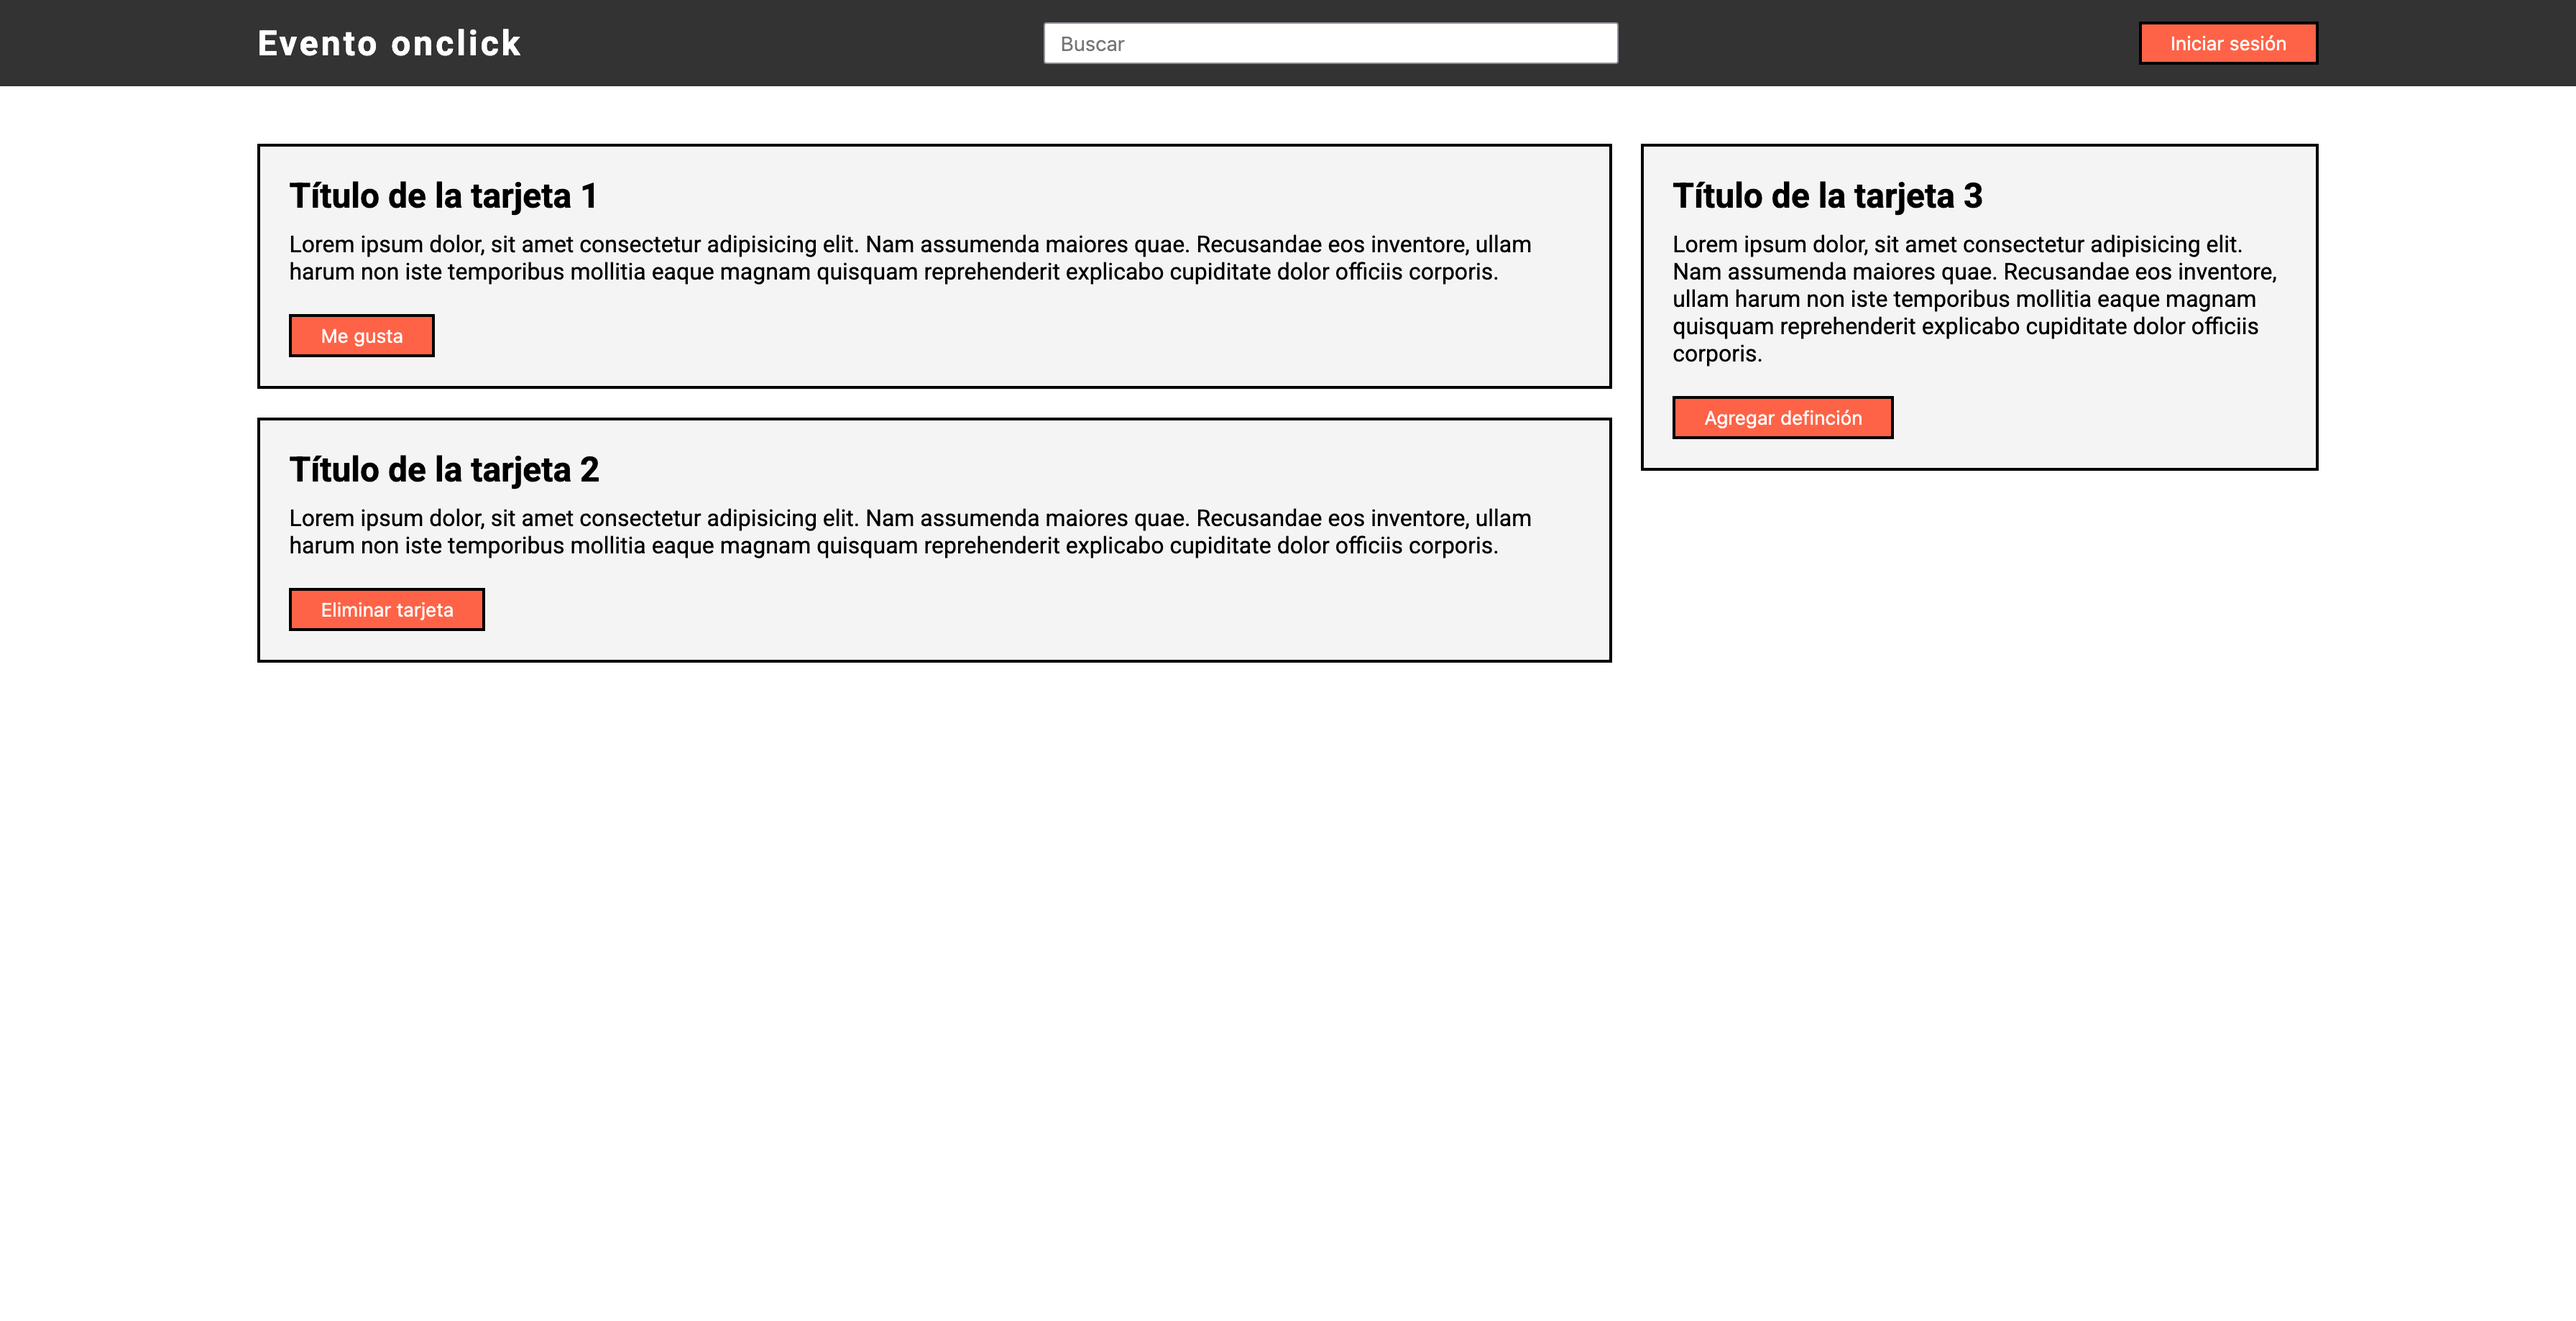
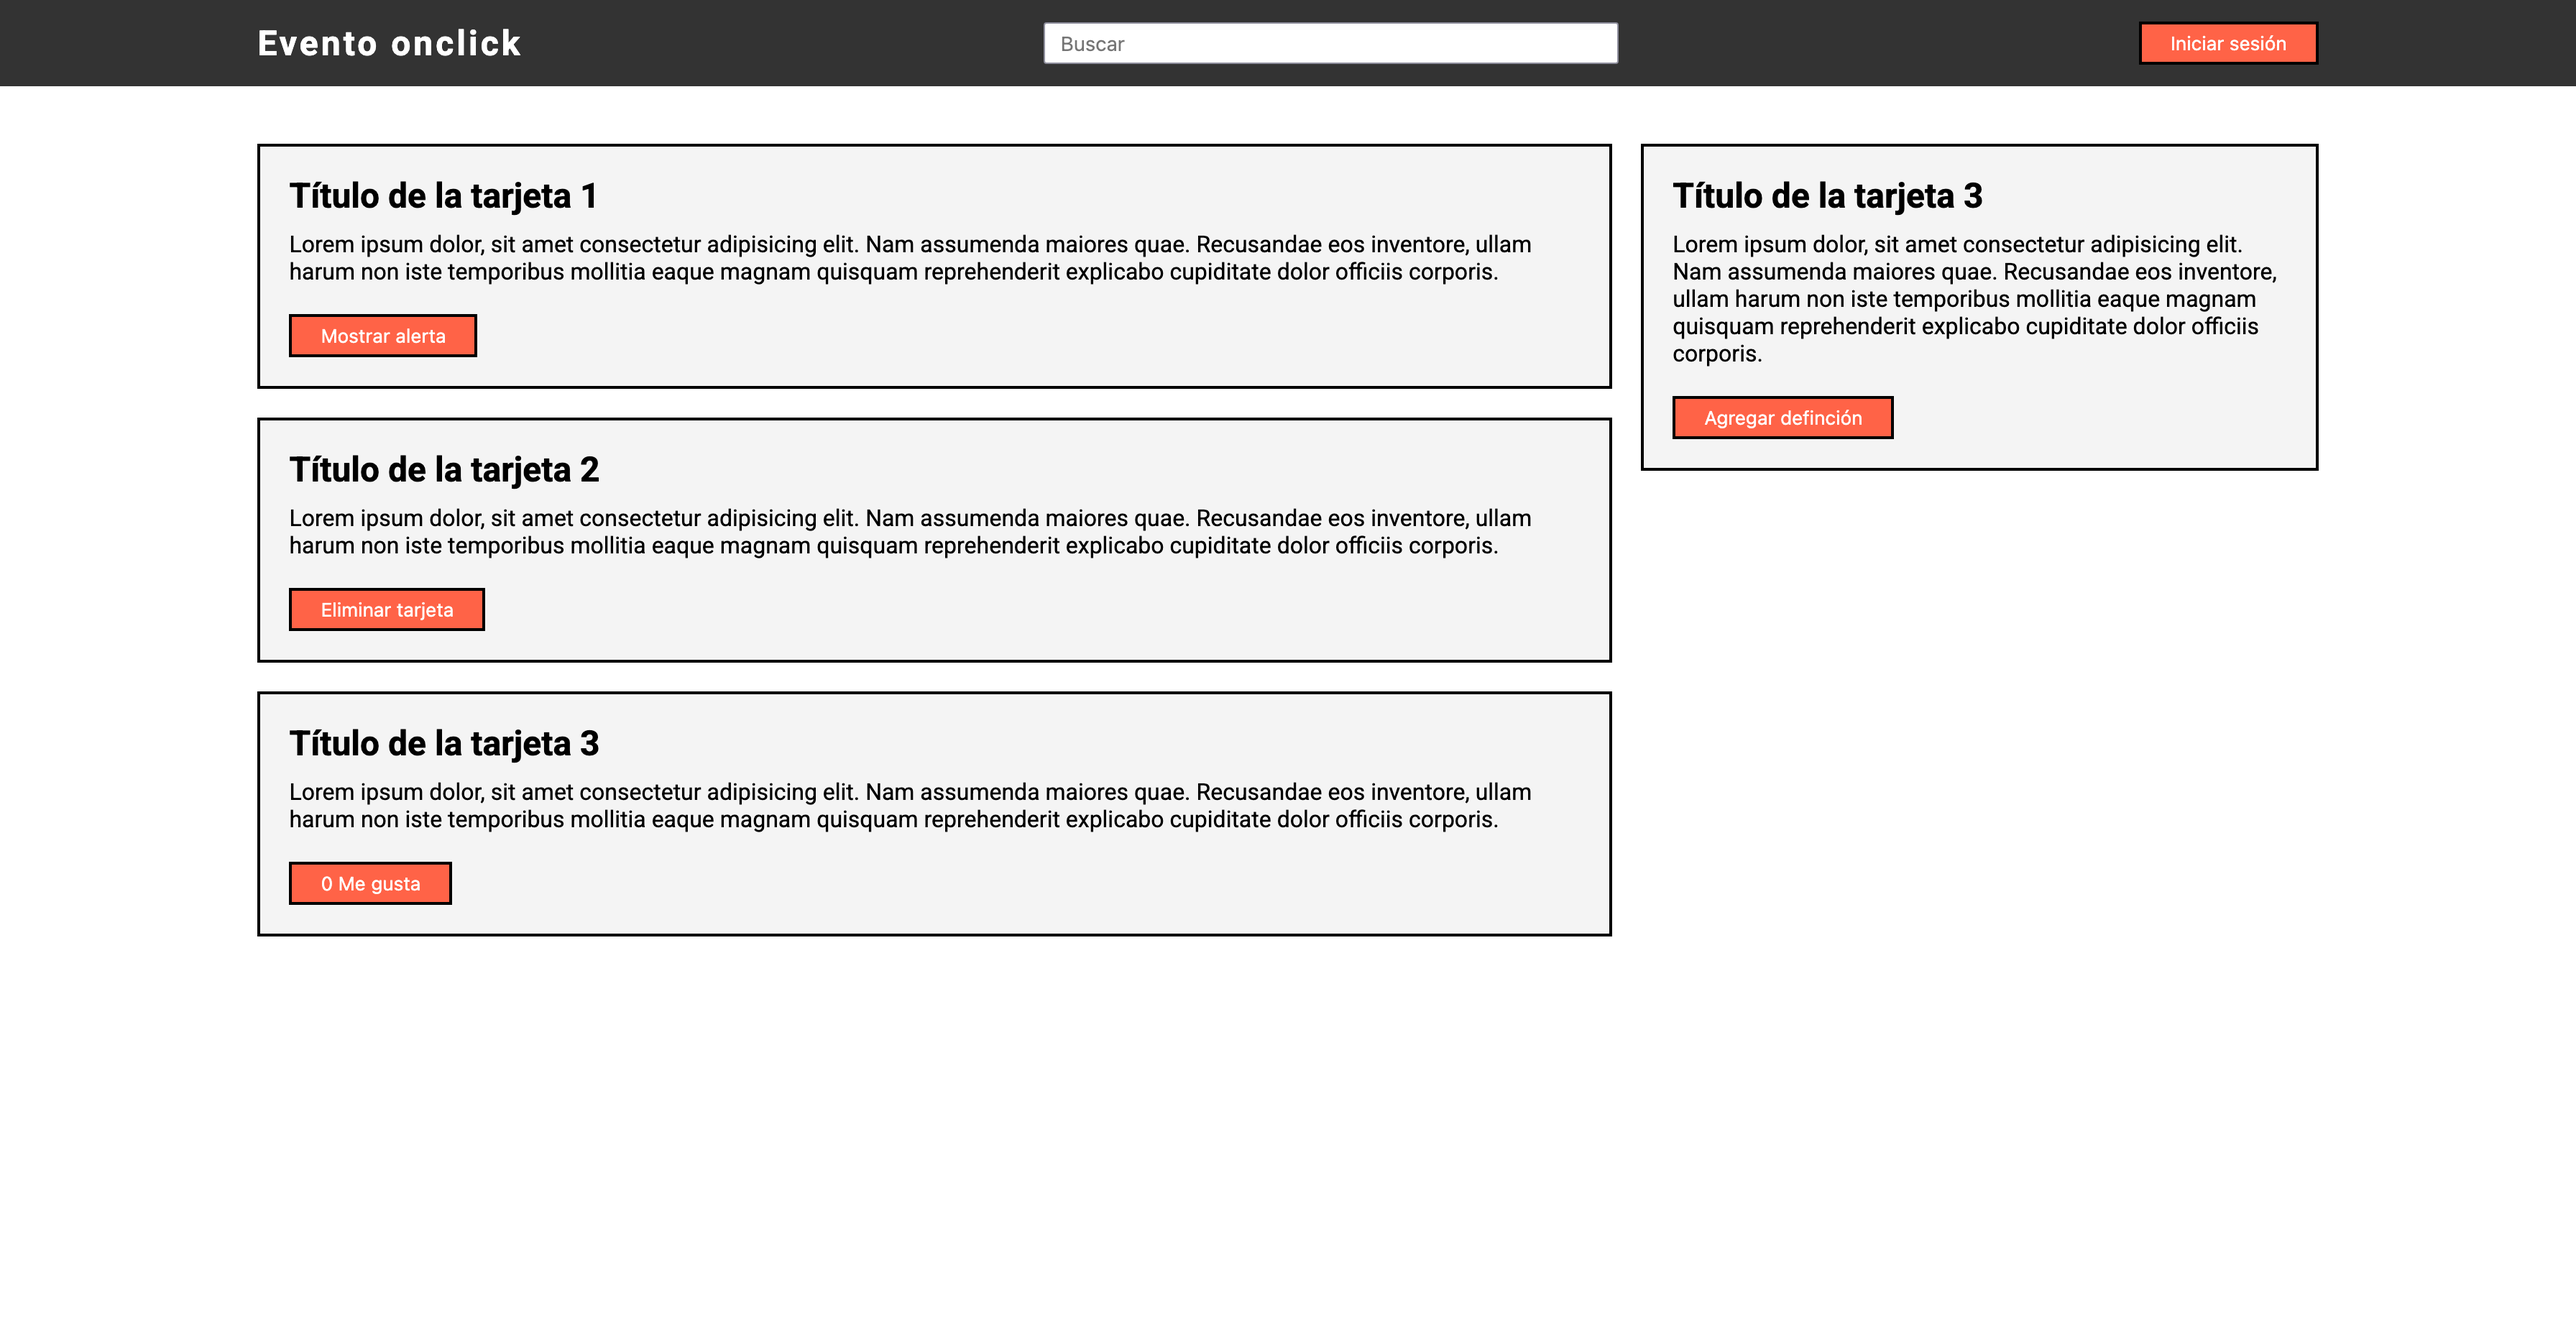
update: resultado final y botón alerta

Changed region(s): [[0.0938, 0.5582, 0.5938, 0.6513], [0.0938, 0.6513, 0.1875, 0.7133], [0.125, 0.2171, 0.1875, 0.2791]]

diff --git a/index.html b/index.html
@@ -50,8 +50,8 @@
                     inventore, ullam harum non iste temporibus mollitia eaque magnam quisquam reprehenderit explicabo
                     cupiditate dolor officiis corporis.
                 </p>
-                <!-- Botón Me gusta de la tarjeta 1 -->
-                <button class="btn" onclick="mostrarMensaje()">Me gusta</button>
+                <!-- Botón mostrar alerta de la tarjeta 1 -->
+                <button class="btn" onclick="mostrarMensaje()">Mostrar alerta</button>
             </div>
 
             <!-- Tarjeta 2 -->
